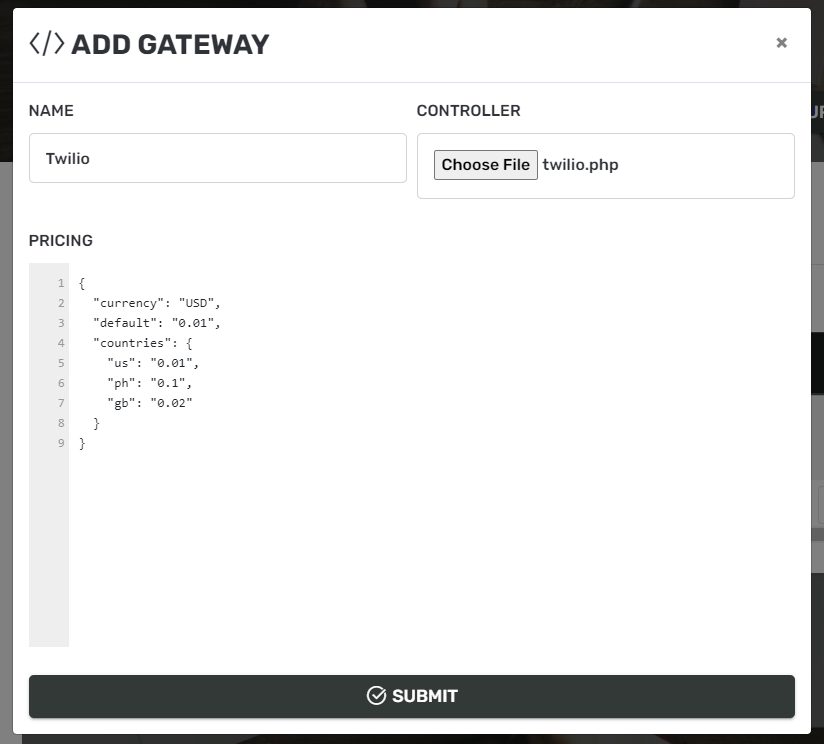
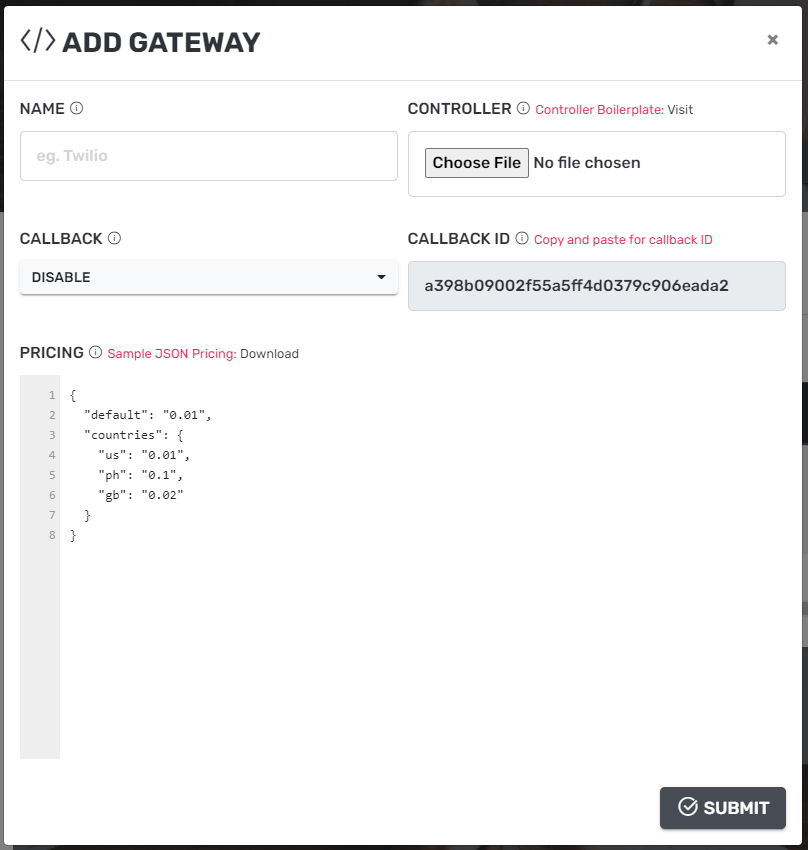
Updated

Changed region(s): [[0.0, 0.0, 1.0, 1.0], [0.495, 0.0927, 0.8973, 0.371], [0.0619, 0.5565, 0.0928, 0.5874]]

diff --git a/twilio.php b/twilio.php
@@ -15,12 +15,14 @@ function gatewaySend($phone, $message, &$system)
 	$fromPhone = ""; // Twilio number to use 
 	$accountSid = ""; // Your twilio Account SID
 	$authToken = ""; // Your twilio authentication token
+	$callbackId = ""; // Callback ID you got from zender admin panel
 
 	$send = json_decode($system->guzzle->post("https://api.twilio.com/2010-04-01/Accounts/{$accountSid}/Messages.json", [
 		"form_params" => [
         	"From" => $fromPhone,
         	"Body" => $message,
-        	"To" => $phone
+        	"To" => $phone,
+        	"StatusCallback" => site_url("gateway/{$callbackId}", true)
         ],
         "auth" => [
         	$accountSid,
@@ -30,20 +32,22 @@ function gatewaySend($phone, $message, &$system)
         "http_errors" => false
 	])->getBody()->getContents());
 
-	sleep(3);
-
 	if($send->status == "queued"):
-		$verify = json_decode($system->guzzle->get("https://api.twilio.com/{$send->uri}", [
-	        "auth" => [
-	        	$accountSid,
-	        	$authToken
-	        ],
-	        "allow_redirects" => true,
-	        "http_errors" => false
-		])->getBody()->getContents());
+		return $send->sid;
+	else:
+		return false;
+	endif;
+}
 
-		if($verify->status == "delivered"):
-			return true;
+function gatewayCallback($request, &$system)
+{
+	$callbackId = ""; // Callback ID you got from zender admin panel
+
+	$system->cache->container("system.gateways");
+
+	if($system->cache->has("{$callbackId}.{$request["MessageSid"]}")):
+		if($request["MessageStatus"] == "sent"):
+			return $system->cache->get("{$callbackId}.{$request["MessageSid"]}");
 		else:
 			return false;
 		endif;
